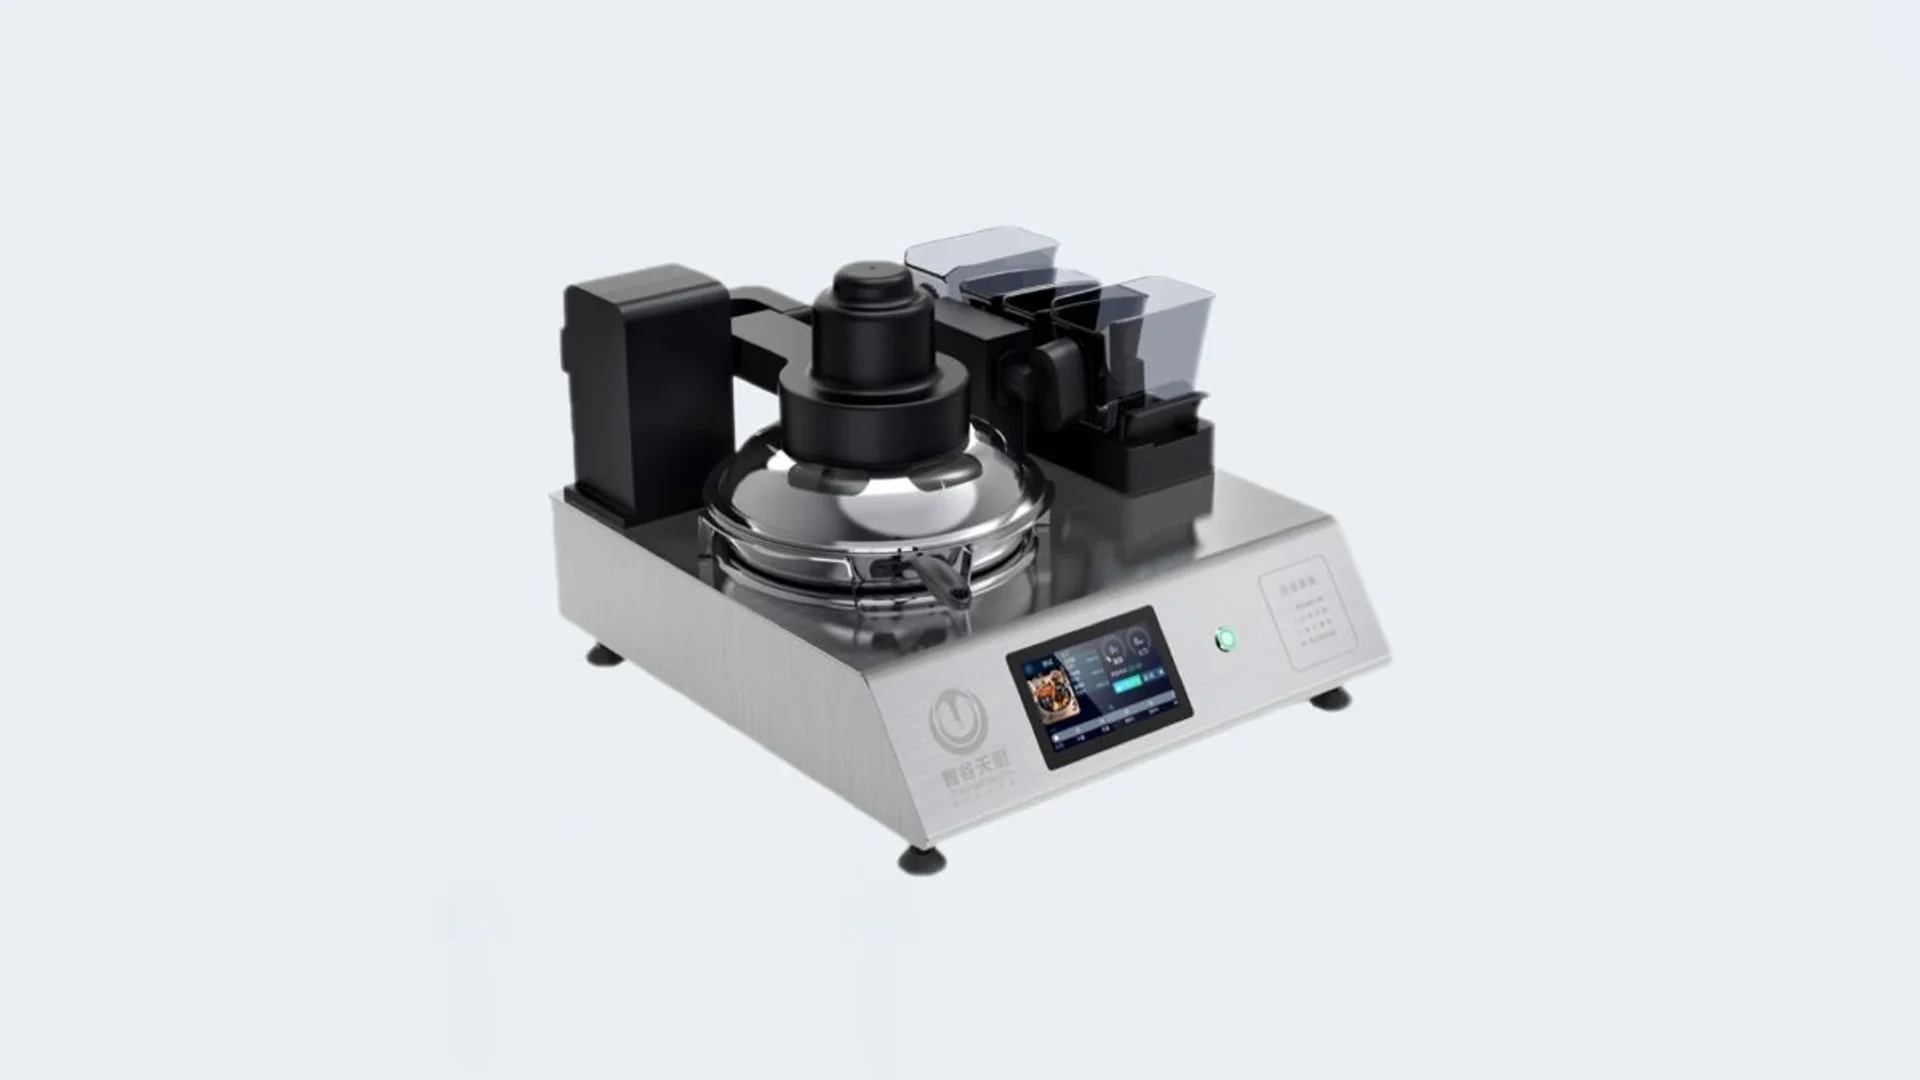
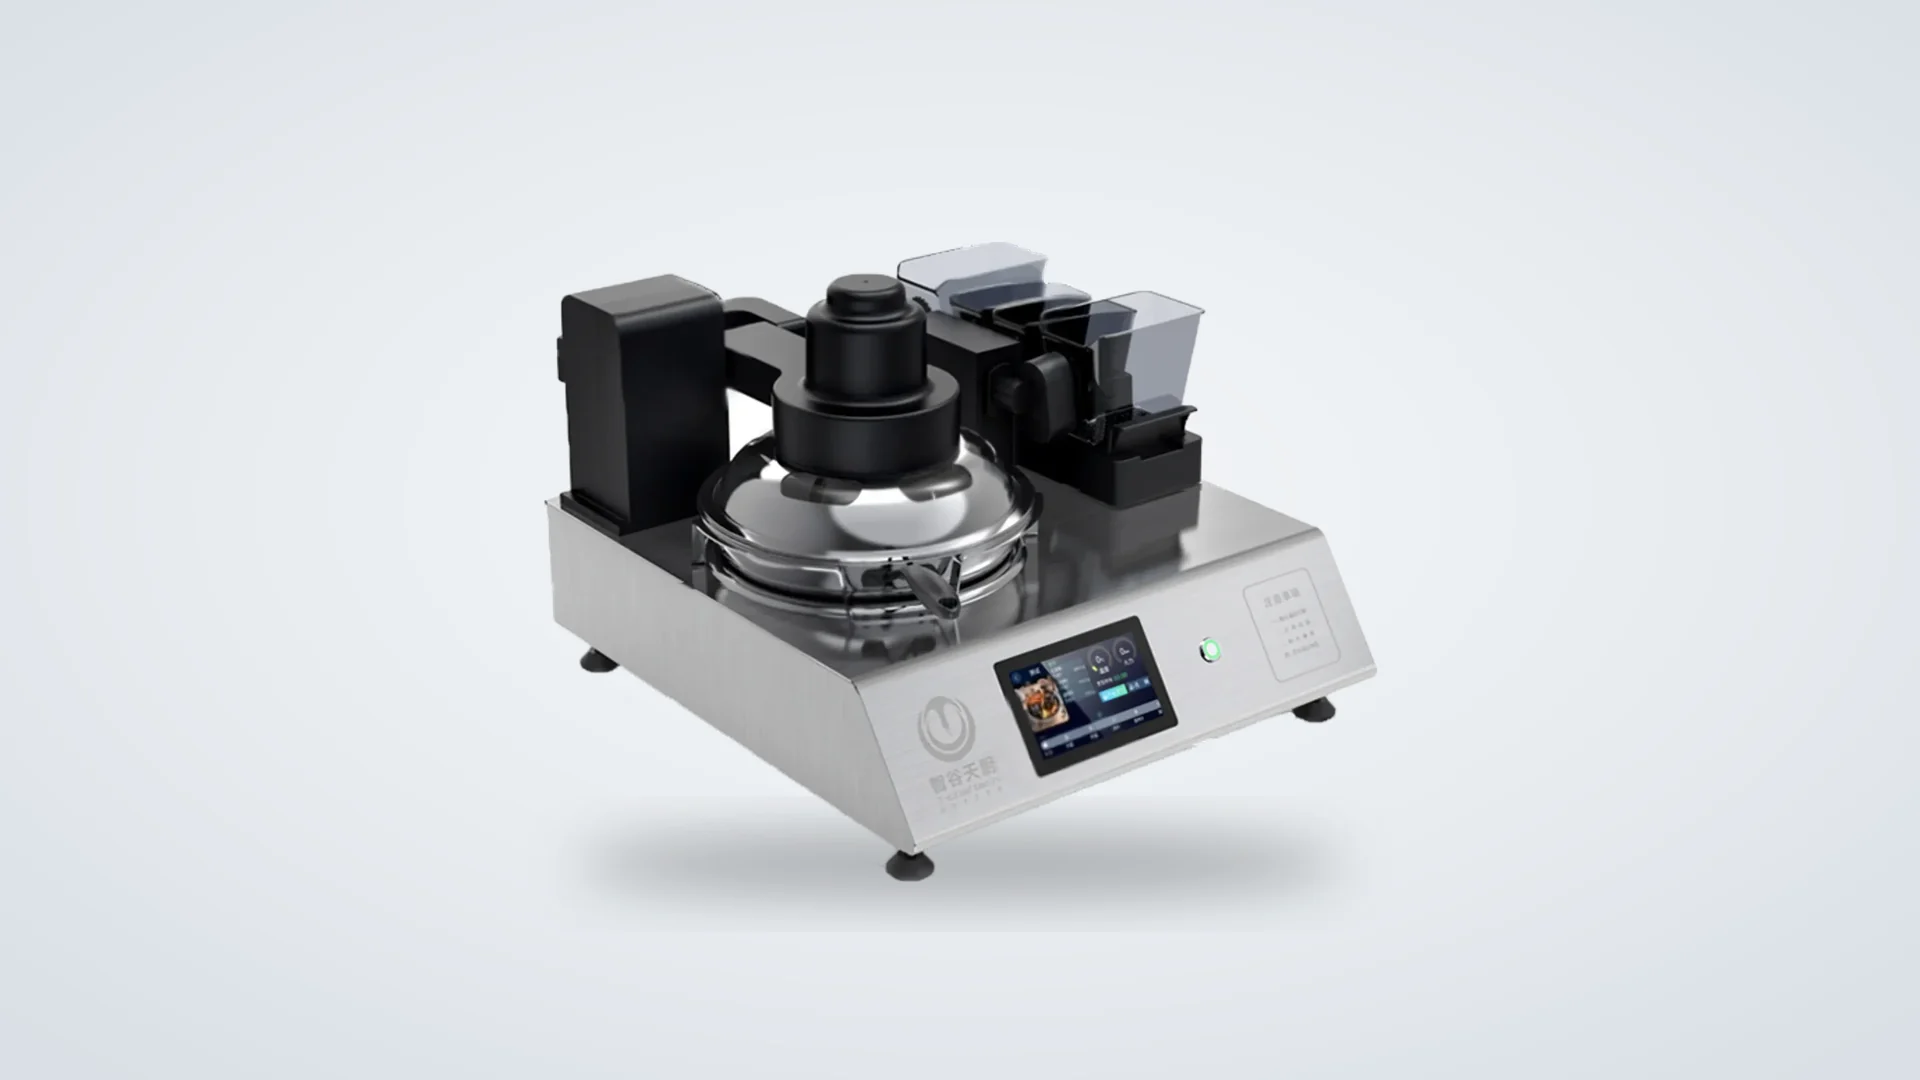
Swap the T-Chef page's blurry studio photos for ones made from the sharper cut-out
The light studio photo was T-Chef's banner enlarged 1.6x, so it looked soft.
It and the dark studio photo are now the product cut-out (supplied by the
business) on a studio set, scaled down rather than up. The homepage tile
gets its own version with the machine set low, so it stays clear of the
tile's title and buttons.

diff --git a/data/homeShowcase.ts b/data/homeShowcase.ts
@@ -253,10 +253,12 @@ export const moreFamilies: RobotFamily[] = [
     href: "/products/t-chef-tc-e10a",
     interest: "cooking",
     modelId: "t-chef-tc-e10a",
-    // T-Chef's own studio shot (en.t-chef.com.cn): the machine sits low, under
-    // the title's scrim. Its page has no lifestyle photo yet.
-    image: "/models/t-chef/studio.webp",
-    focus: "50% 70%",
+    // T-Chef's product render on a light studio set, made for this tile: the
+    // machine sits in the lower part, clear of the title and buttons. Phones
+    // show a 4:3 strip, kept to the bottom. There's no lifestyle photo yet.
+    image: "/models/t-chef/tile.webp",
+    focus: "50% 50%",
+    focusPhone: "50% 100%",
     shot: {
       en: "TC-E10A in a working kitchen, pan in motion · 4:3 · machine centred, full height in frame",
       th: "TC-E10A ในครัวที่กำลังทำงาน · 4:3 · เครื่องอยู่กลางภาพ เห็นเต็มตัว",

diff --git a/data/modelPages.ts b/data/modelPages.ts
@@ -167,8 +167,9 @@ export const modelPages: ModelPage[] = [
    * Cooking Robot"), checked 2026-10-01. Figures and specs are from its
    * Technical Parameters tab; the feature claims are the five callouts on its
    * labelled product image (the page has no other feature text). It never
-   * says "commercial", so neither do we. Photos are T-Chef's own two images
-   * from that page (the cut-outs and the dark studio shot are made from them).
+   * says "commercial", so neither do we. Photos: T-Chef's product render as a
+   * sharper transparent cut-out supplied by the business (2026-10-01) — the
+   * hero, the card and both studio shots — plus the labelled image itself.
    * The Thai text is a DRAFT for the Thai team to review.
    */
   {
